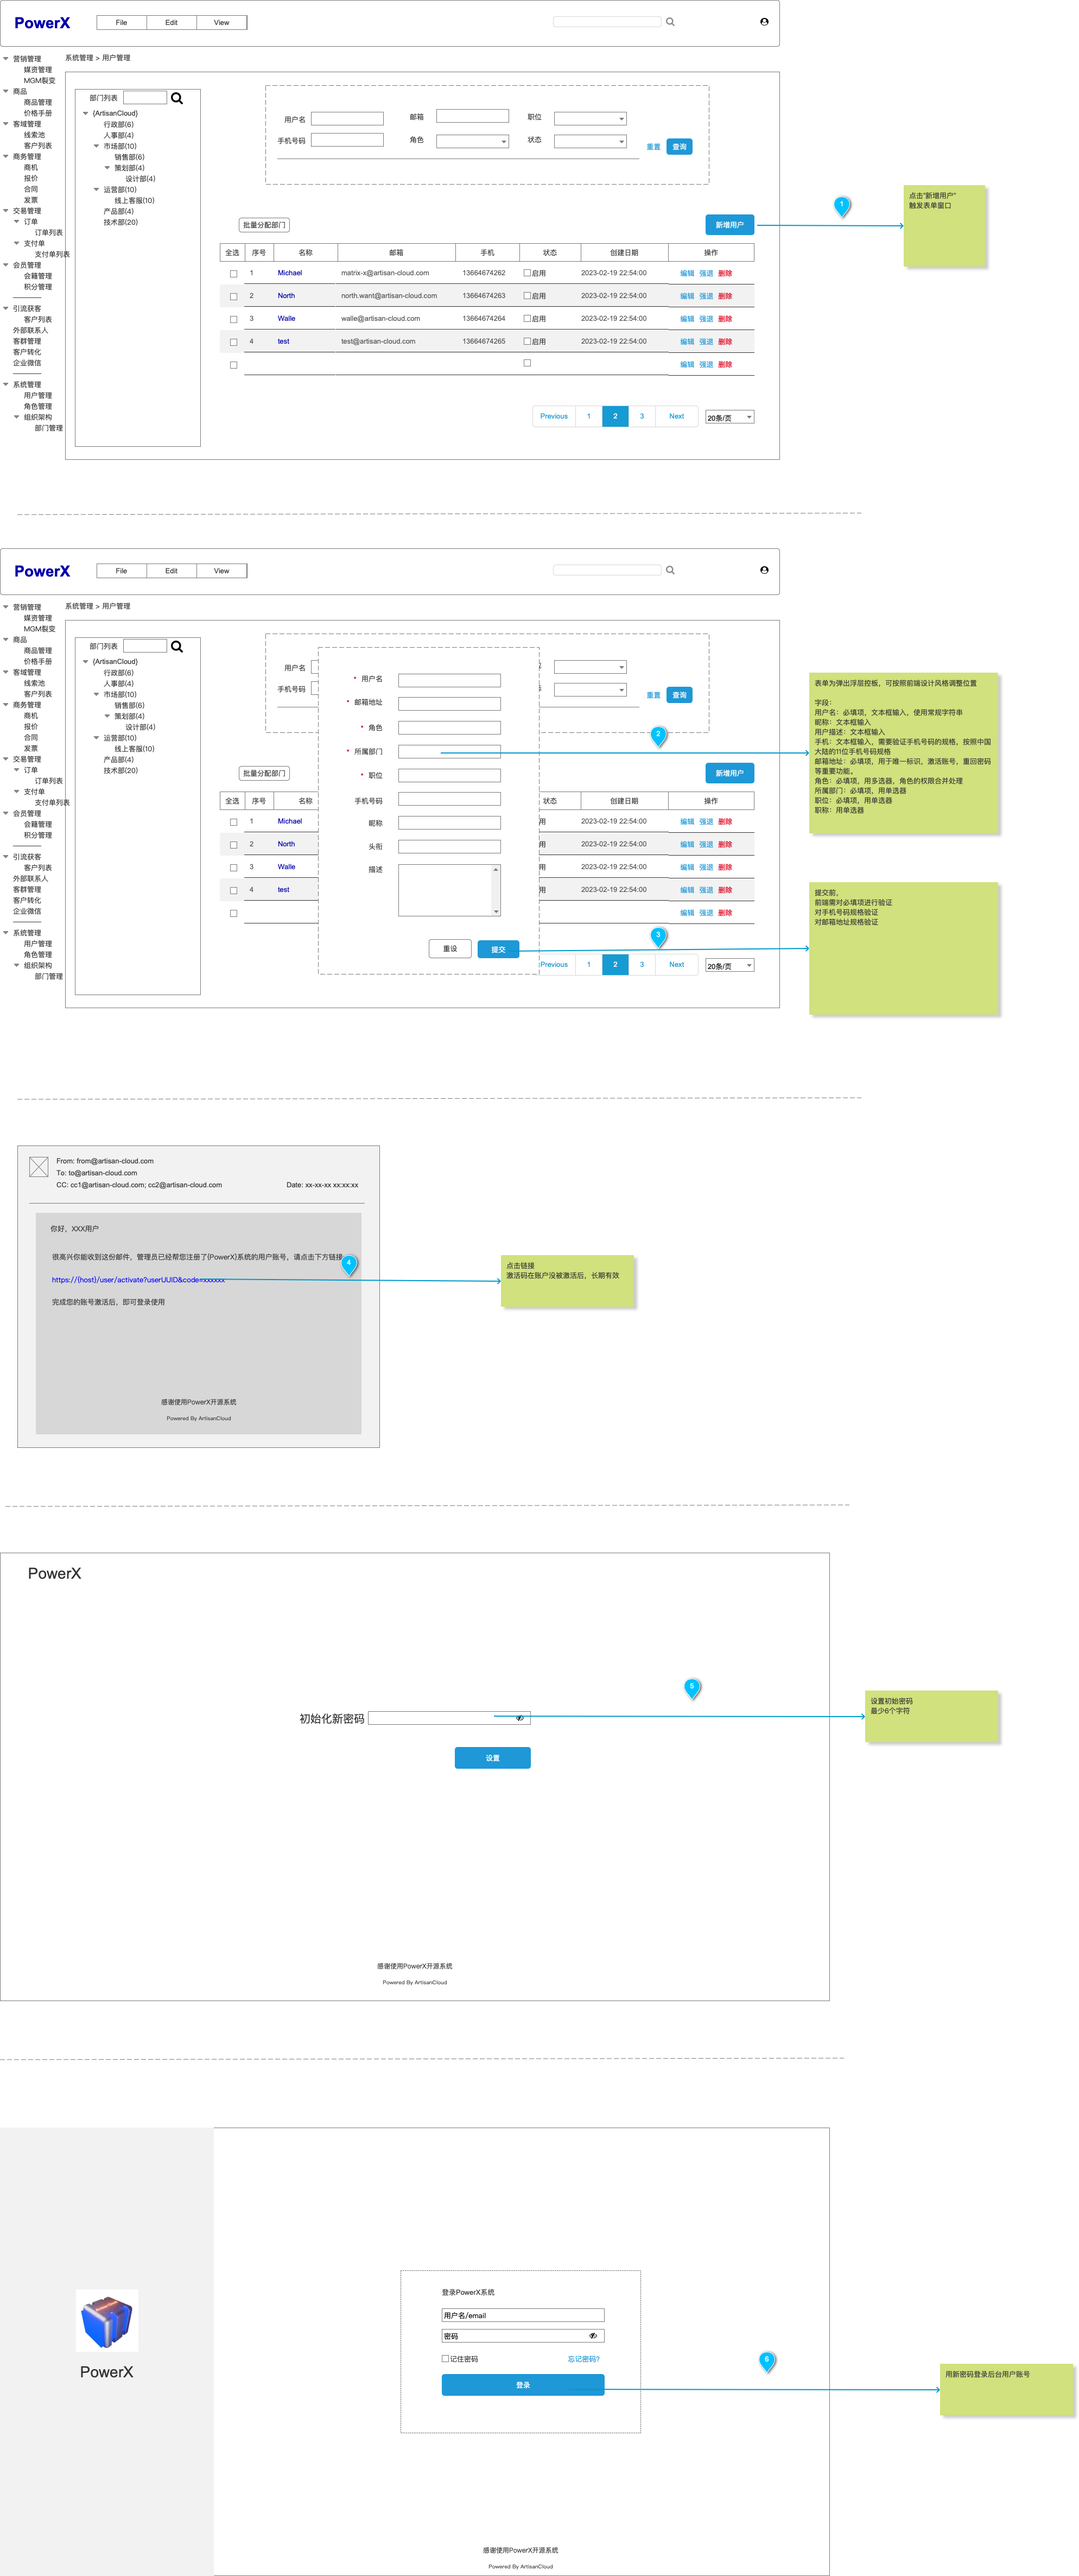
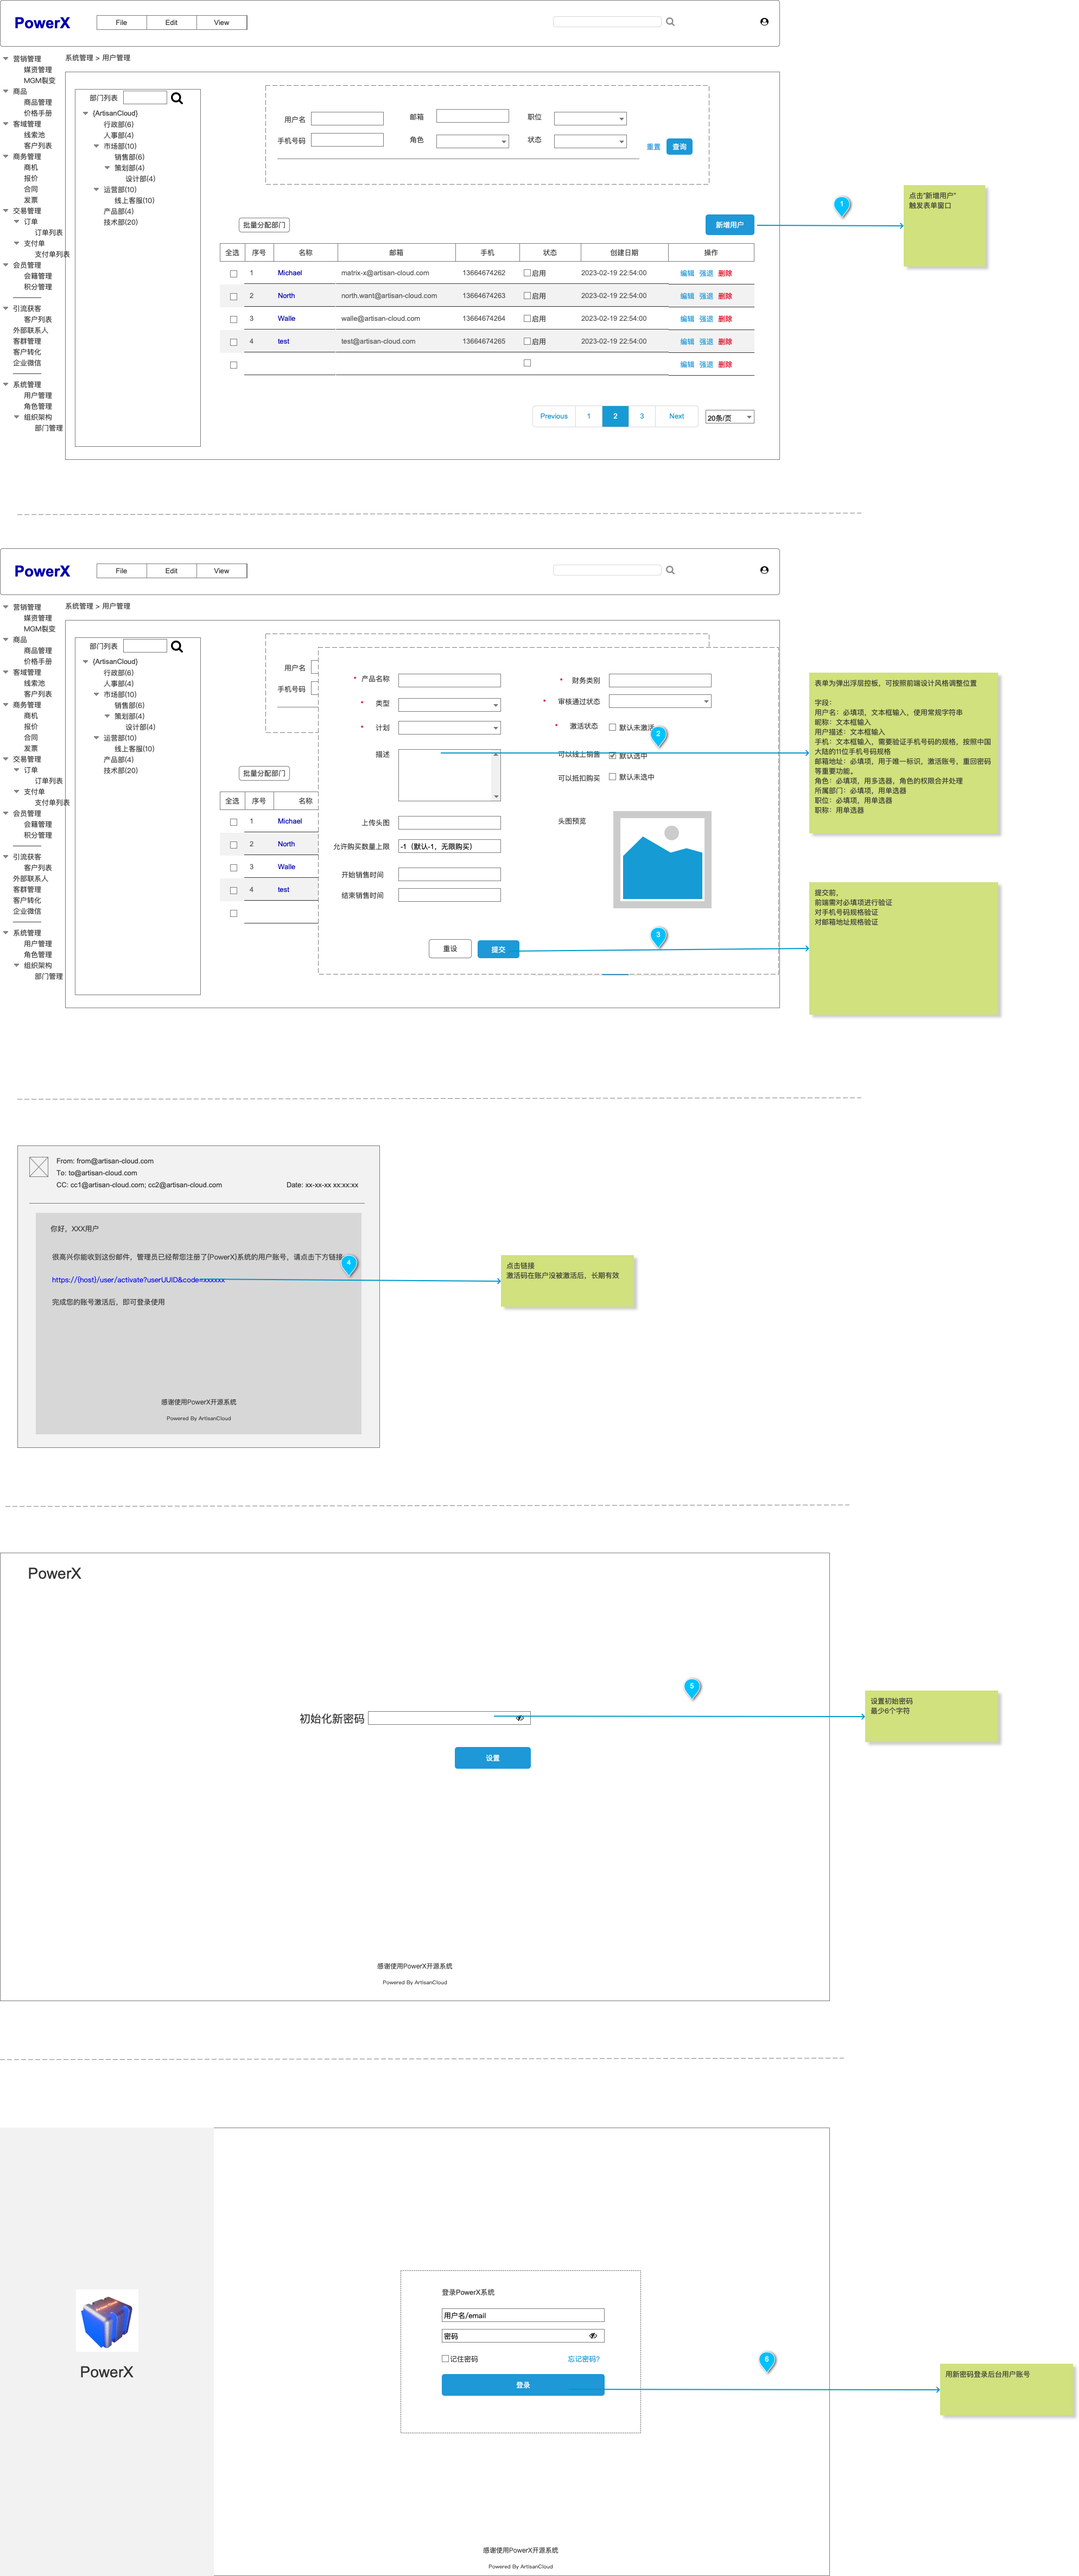
feat(price): add product price book prototype

Changed region(s): [[0.5302, 0.2495, 0.7173, 0.3743], [0.3119, 0.2807, 0.3742, 0.3431], [0.6237, 0.2495, 0.6549, 0.2807]]

diff --git a/docs/zh/v1/manual/system/develop.md b/docs/zh/v1/manual/system/develop.md
@@ -1,0 +1,21 @@
+---
+title: 开发规范
+date: 2022-12-18
+description: PowerX安装完系统后，有一个初始化的配置，采用了页面化配置方案。
+
+---
+
+# 开发规范
+
+## 项目设计结构介绍
+* api: 配置玩api层的模块，由GoZero的GoCtl生成，
+  * admin: 管理后台的api
+  * mp: 小程序的api
+  * custom: 自定义的api
+  * plugin: 插件的api
+* middleware: 中间件
+* router: 路由，由GoZero的GoCtl生成
+* handle: 控制器的入口，由GoZero的GoCtl生成
+* Logic: 业务逻辑
+* UC：crud系列包括，分页列表，详情，删除，更新，增新Upsert，transaction，
+* Model：表字段配置，关系表配置

diff --git a/docs/zh/v1/product/design/prd/crm/product/pricebookEntry/create.md b/docs/zh/v1/product/design/prd/crm/product/pricebookEntry/create.md
@@ -1,0 +1,27 @@
+---
+title: 创建价格手册条目
+date: 2023-03-08
+description: 创建价格手册条目的描述
+
+---
+
+# 创建价格手册条目
+
+
+## 用例
+
+![](../../../../images/uc_pbk_ent_mgmt_create.png)
+
+## 用例描述
+
+![](../../../../images/uc_desc_pbk_ent_mgmt_create.png)
+
+
+## 流程图
+
+![](../../../../images/fl_pbk_ent_mgmt_create.png)
+
+
+## 原型图
+
+![](../../../../images/pt_pbk_ent_mgmt_create.png)

diff --git a/docs/zh/v1/product/design/prd/crm/product/pricebookEntry/edit.md b/docs/zh/v1/product/design/prd/crm/product/pricebookEntry/edit.md
@@ -1,0 +1,27 @@
+---
+title: 编辑价格手册条目
+date: 2023-03-08
+description: 编辑价格手册条目的描述
+
+---
+
+# 编辑价格手册条目
+
+
+## 用例
+
+![](../../../../images/uc_pbk_ent_mgmt_edit.png)
+
+## 用例描述
+
+![](../../../../images/uc_desc_pbk_ent_mgmt_edit.png)
+
+
+## 流程图
+
+![](../../../../images/fl_pbk_ent_mgmt_edit.png)
+
+
+## 原型图
+
+![](../../../../images/pt_pbk_ent_mgmt_edit.png)

diff --git a/docs/zh/v1/product/design/prd/crm/product/pricebook/create.md b/docs/zh/v1/product/design/prd/crm/product/pricebook/create.md
@@ -1,0 +1,27 @@
+---
+title: 创建价格手册
+date: 2023-03-08
+description: 创建价格手册的描述
+
+---
+
+# 创建价格手册
+
+
+## 用例
+
+![](../../../../images/uc_pbk_mgmt_create.png)
+
+## 用例描述
+
+![](../../../../images/uc_desc_pbk_mgmt_create.png)
+
+
+## 流程图
+
+![](../../../../images/fl_pbk_mgmt_create.png)
+
+
+## 原型图
+
+![](../../../../images/pt_pbk_mgmt_create.png)

diff --git a/docs/zh/v1/product/design/prd/crm/product/list.md b/docs/zh/v1/product/design/prd/crm/product/list.md
@@ -24,3 +24,11 @@ description: 查看客户列表的描述
 ## 原型图
 
 ![](../../../images/pt_prod_mgmt_list.png)
+
+
+商品展示字段
+商品名称
+
+
+
+
